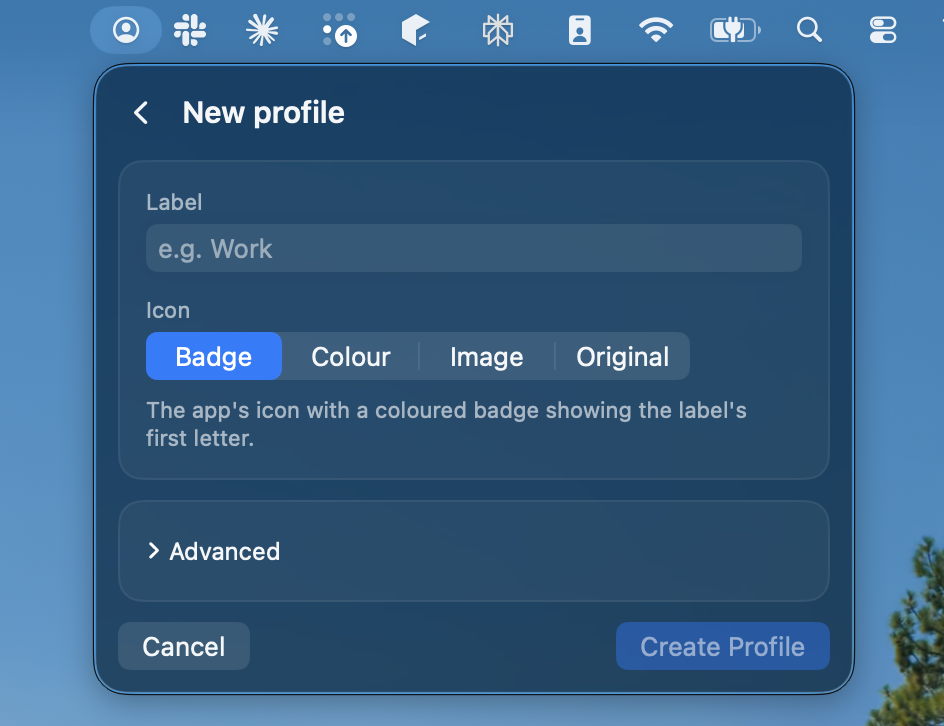
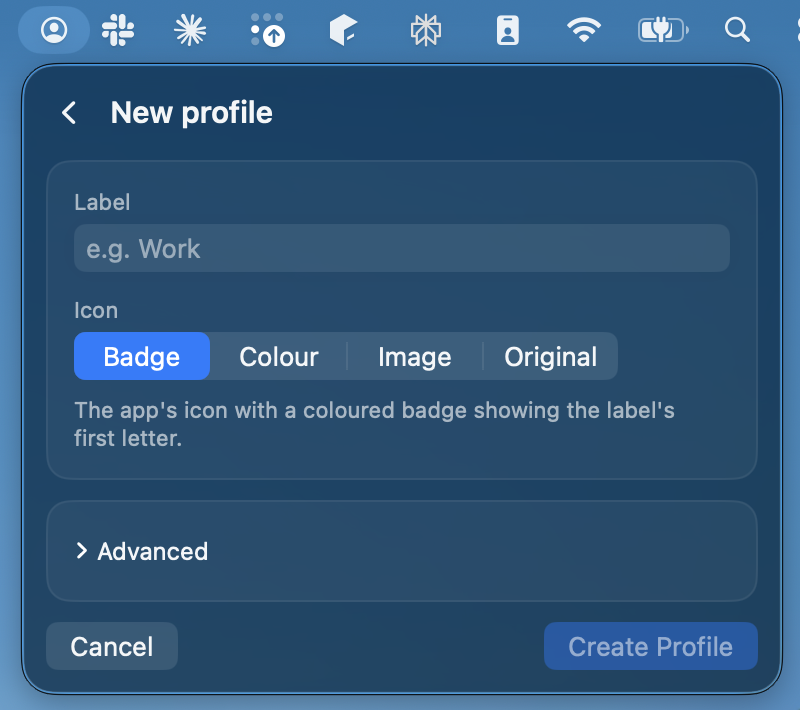
Shorter README with the screenshots on top
Both screenshots are now the same size (800x710) and sit side by side at
the top. Details (all commands and options, icons, updating, the menu bar
app build, platforms) move to docs/usage.md. The icon section now uses
the 'icon' command instead of re-running add.

Claude-Session: https://claude.ai/code/session_01RpSPo6f4JX8crexbrQ7P2x

Changed region(s): [[0.0, 0.0, 1.0, 1.0], [0.5938, 0.4648, 0.75, 0.5268], [0.4688, 0.4648, 0.5625, 0.5268]]

diff --git a/README.md b/README.md
@@ -1,6 +1,20 @@
+<div align="center">
+
 # claude-desktop-profiles
 
-Run more than one Claude Desktop account on the same computer, for example a personal and a work account, each signed in at the same time. On macOS every profile is its own app, with its own Dock icon and name, its own data and its own Claude Code settings.
+Run several Claude Desktop accounts side by side, for example personal and work, each signed in.
+On macOS every profile is its own app, with its own Dock icon, data and Claude Code settings.
+
+[Quick start](#quick-start) · [Menu bar app](#menu-bar-app) · [Usage](docs/usage.md)
+
+<table>
+  <tr>
+    <td width="50%"><img src="docs/images/menubar-profiles.png" alt="The menu bar app listing two running profiles, Claude Personal and Claude Work" /></td>
+    <td width="50%"><img src="docs/images/menubar-new-profile.png" alt="The New profile form: a label, icon choices Badge, Colour, Image and Original, and an Advanced section" /></td>
+  </tr>
+</table>
+
+</div>
 
 ## Quick start
 
@@ -10,172 +24,47 @@ cd claude-desktop-profiles
 ./claude-profiles add Work
 ```
 
-Open `~/Applications/Claude Work.app`, sign in to the account you want in that profile, and pin it to your Dock if you like. Your existing Claude stays as it is, with its current account.
+Open `~/Applications/Claude Work.app` and sign in. Your existing Claude stays as it is.
 
-No dependencies and nothing to install: it is one script that uses only tools macOS already has. Read it before you run it.
+It is one script with no dependencies, using only tools macOS already has. Read it before you run it.
 
-Prefer clicking to typing? The [menu bar app](#menu-bar-app-macos) does the same from the macOS menu bar.
-
-## What each profile gets (macOS)
+## What a profile gets
 
 | | |
 | --- | --- |
-| **App** | `~/Applications/Claude <label>.app`, a copy of Claude with its own name and icon, so it has its own Dock tile. The copy is an APFS clone and uses almost no extra disk space. |
-| **Icon** | The Claude icon with a large coloured badge showing the label's first letter. Use `--color` to turn the whole icon to another colour instead, `--icon` for your own image, or `--no-badge` to keep Claude's. |
-| **App data** | A separate folder, `~/Library/Application Support/Claude-<label>`: login, history, settings. |
-| **Claude Code settings** | A separate `~/.claude-<label>` (label in lowercase, e.g. `~/.claude-work`) instead of `~/.claude`, so history, settings and login stay apart. |
+| **App** | `~/Applications/Claude <label>.app`: a copy of Claude (an APFS clone, almost no disk space) with its own name and Dock icon |
+| **Icon** | Claude's icon with a coloured badge, a whole new colour, or your own image |
+| **Data** | `~/Library/Application Support/Claude-<label>`: login, history, settings |
+| **Claude Code** | `~/.claude-<label>` instead of `~/.claude` |
 
 The installed Claude is never modified.
 
+## Menu bar app
+
+Does everything the script does from the menu bar: shows profiles that are older than the installed Claude and updates them, lists every profile with its folders, opens and quits profiles, and creates, re-icons and removes them.
+
+```bash
+menubar/build.sh --open    # macOS 13+, needs Xcode or the Command Line Tools
+```
+
+Or download `Claude-Profiles-Menu.zip` from [Releases](https://github.com/piotr-liszka/claude-desktop-profiles/releases), unzip it into `~/Applications`, then right-click the app and choose **Open** (it is not notarized).
+
 ## Commands
 
-| Command | What it does |
-| --- | --- |
-| `add <label>` | Create a profile |
-| `list` | Show profiles and whether each is running. `--json` prints them for other programs. |
-| `launch <label>` | Start a profile, or bring it to the front |
-| `quit <label>` | Quit a running profile |
-| `icon <label> --color COLOR` | macOS: change an app copy's icon and keep its data and settings. Instead of `--color`, use `--icon PATH`, `--badge` or `--no-badge`. `--restart` quits and reopens it if it is open. |
-| `update [label]` | Rebuild app copies from the installed Claude (run this after Claude updates). Without a label it rebuilds every profile. `--outdated` skips copies already at the installed version; `--restart` quits open profiles first and reopens them. |
-| `install-updater` | macOS: create `~/Applications/Claude Profiles Updater.app`, which does the update for you (see below) |
-| `env <label>` | Print `export` lines so a terminal can use the profile's settings |
-| `remove <label>` | Delete the profile's app and keep its data |
-| `remove <label> --purge` | Also delete its data and Claude Code folders (asks you to type the label) |
-| `doctor` | Show what was detected on this machine |
-
-Options for `add`:
-
-| Option | Meaning |
-| --- | --- |
-| `--app PATH` | App to use (default: auto-detected Claude Desktop) |
-| `--color COLOR` | Turn the whole icon to this colour instead of adding a badge: a name (`red`, `orange`, `yellow`, `green`, `teal`, `blue`, `purple`, `pink`) or a coloured hex such as `#3b82f6`. Only the hue is used, so grey, black and white are refused. |
-| `--icon PATH` | Your own icon: `.icns`, or an image such as `.png` (square, 1024 px is best). Wins over `--color`. |
-| `--no-badge` | Keep the app's own icon |
-| `--data-dir PATH` | App data folder |
-| `--config-dir PATH` | Claude Code folder (default `~/.claude-<label in lowercase>`) |
-| `--no-config-dir` | Do not give the profile its own Claude Code folder |
-| `--env NAME=VALUE` | Extra environment variable for the app (repeatable) |
-| `--shared-app` | Do not copy the app; start the installed one through a launcher (all profiles then share one Dock tile) |
-| `--dest DIR` | Where the profile is created |
-| `--dry-run` | Show what would happen and change nothing |
-
-Labels may contain letters, digits, `-` and `_`.
-
-## Changing the icon later
-
-Run `add` again for the same label. It rebuilds the app and keeps the profile's data, but the profile must be quit first:
-
 ```bash
-./claude-profiles add Work --color blue
+./claude-profiles add Work --color blue   # create a profile
+./claude-profiles list                    # profiles and whether they run
+./claude-profiles launch Work             # start or show it
+./claude-profiles update --outdated --restart   # after Claude updates
+./claude-profiles remove Work [--purge]   # remove the app (and its data)
 ```
 
-The icon lives inside the profile's app, at `~/Applications/Claude <label>.app/Contents/Resources/profile.icns`. To swap it by hand, replace that file, then sign the app again and refresh the Dock:
-
-```bash
-codesign --force --deep --sign - "$HOME/Applications/Claude Work.app"
-touch "$HOME/Applications/Claude Work.app" && killall Dock
-```
-
-`update` keeps whatever icon the profile has.
-
-## Updating after Claude updates
-
-Profile copies do not update themselves. Let the original Claude install its update, then open **Claude Profiles Updater**. It lists the profiles that are older than the installed Claude, asks before it starts, quits the open ones, rebuilds them and reopens them.
-
-Create it once:
-
-```bash
-./claude-profiles install-updater
-```
-
-It carries its own copy of the script, so run `install-updater` again after you change the script. Its log is `~/Library/Logs/claude-profiles-updater.log`.
-
-Without the app, run `./claude-profiles update --outdated --restart` from Terminal. A profile cannot quit itself, so this refuses to run from a terminal inside a profile it would quit.
-
-## Menu bar app (macOS)
-
-A small app in the menu bar that does everything the script does, without a terminal:
-
-<p>
-  <img src="docs/images/menubar-profiles.png" alt="The menu bar app listing two running profiles, Claude Personal and Claude Work, each with a Show button" width="400">
-  <img src="docs/images/menubar-new-profile.png" alt="The New profile form: a label field, icon choices Badge, Colour, Image and Original, and an Advanced section" width="400">
-</p>
-
-- shows which profiles are older than the installed Claude and updates them (one, or all at once), quitting and reopening open ones
-- lists every profile with its state, version and where its app, data and Claude Code settings are, with buttons to show them in Finder or copy them
-- opens, shows and quits profiles
-- creates profiles (label, badge, colour or your own icon, and the advanced options of `add`), changes a profile's icon and removes a profile, optionally with its data
-- click a profile for its details: app, data folder, Claude Code folder, the app it was built from and its environment
-- copies the terminal command for a profile's Claude Code settings, creates the updater app and shows the `doctor` output
-
-Each [release](https://github.com/piotr-liszka/claude-desktop-profiles/releases) has `Claude-Profiles-Menu.zip`, built from that release's sources by GitHub Actions. Unzip it into `~/Applications`. It is signed ad hoc, not by a registered developer, so macOS blocks the first start: right-click the app, choose **Open**, then **Open** again. Or remove the download mark yourself:
-
-```bash
-xattr -dr com.apple.quarantine "$HOME/Applications/Claude Profiles Menu.app"
-```
-
-Or build it yourself. That needs macOS 13 or later and Apple's Swift compiler, which comes with Xcode or the Command Line Tools (`xcode-select --install`):
-
-```bash
-menubar/build.sh --open
-```
-
-This creates `~/Applications/Claude Profiles Menu.app`. It carries its own copy of `claude-profiles` and runs it for every action, so build it again after you change the script. To start it when you log in, use **Open at Login** in its settings menu. If your profiles are not in `~/Applications`, tell it where they are:
-
-```bash
-defaults write local.claude-profiles.menubar ProfilesDest /path/to/folder
-```
-
-## Claude Code in a terminal
-
-The profile's app uses `~/.claude-<label in lowercase>`. To use the same settings and login from a terminal:
-
-```bash
-eval "$(./claude-profiles env Work)"
-claude
-```
-
-## Platforms
-
-| Platform | Script | Status |
-| --- | --- | --- |
-| macOS | `claude-profiles` | Tested. App copy per profile, own icon, name, data and Claude Code folder. |
-| Linux | `claude-profiles` | Untested. A `.desktop` launcher with its own data folder. Pass the executable with `--app` if it is not found as `claude-desktop`. |
-| Windows | `claude-profiles.ps1` | Experimental, untested. A Start Menu shortcut with its own data folder and icon. No app copy and no separate Claude Code folder yet. No `list --json`, `quit` or menu bar app. |
-
-## Other apps
-
-The script is not tied to Claude. It works with any app that honors the Chromium `--user-data-dir` flag, which Electron apps do:
-
-```bash
-./claude-profiles add Work --app "/Applications/Some App.app" --env SOME_VAR=value
-```
+All commands and options, updating, icons, Linux and Windows: [docs/usage.md](docs/usage.md).
 
 ## Good to know
 
-- **Updates.** Copies do not auto-update, because they are no longer signed by Anthropic. If a profile offers to install an update, close the message: let only the original Claude update, then use the updater app or `update --restart` (see above).
-- **Signing.** Editing the copy breaks its signature, so it is signed ad hoc on your machine. macOS may ask once for Keychain access, and permissions such as camera or screen recording are granted per copy. Features that rely on Anthropic's signature (passkeys, security keys, Microsoft single sign-on) may not work in a copy. If you need them, create that profile with `--shared-app`.
-- **Sign-in.** Sign-in returns to the app through a link that macOS delivers to one app. If it opens the wrong window, quit the other profile while you sign in, then start it again.
-- **Disk space.** Each profile keeps its own data, including anything large the app downloads for itself.
-- **Safety.** The tool only creates files in the folder you give it (`~/Applications` by default) and reads the process list. `--purge` refuses anything that does not look like a dedicated profile folder, never touches `~/.claude` or the app's own default folder, and asks you to type the label first.
+- Copies do not auto-update. Let only the original Claude update, then run `update` or use the menu bar app.
+- Copies are signed ad hoc on your machine. Passkeys, security keys and Microsoft sign-in may not work in a copy; use `add --shared-app` for those.
+- If sign-in opens the wrong window, quit the other profile while you sign in.
 
-## Remove everything
-
-```bash
-./claude-profiles remove Work --purge
-```
-
-## Tests
-
-```bash
-tests/run.sh           # unit and CLI tests in a throwaway HOME, using a fake app
-LIVE=1 tests/run.sh    # also starts the fake app through the generated profiles and draws a badge
-```
-
-## Disclaimer
-
-Unofficial. Not affiliated with or endorsed by Anthropic. Claude is a trademark of Anthropic.
-
-## License
-
-MIT
+Unofficial. Not affiliated with or endorsed by Anthropic. Claude is a trademark of Anthropic. MIT license.

diff --git a/docs/usage.md b/docs/usage.md
@@ -1,0 +1,104 @@
+# Usage
+
+## Commands
+
+| Command | What it does |
+| --- | --- |
+| `add <label>` | Create a profile |
+| `list` | Show profiles and whether each is running. `--json` prints them for other programs. |
+| `launch <label>` | Start a profile, or bring it to the front |
+| `quit <label>` | Quit a running profile |
+| `icon <label> --color COLOR` | macOS: change a profile's icon and keep its data and settings. Instead of `--color`: `--icon PATH`, `--badge` or `--no-badge`. `--restart` quits and reopens it if it is open. |
+| `update [label]` | Rebuild app copies from the installed Claude, all of them without a label. `--outdated` skips copies already at the installed version; `--restart` quits open profiles and reopens them. |
+| `install-updater` | macOS: create `~/Applications/Claude Profiles Updater.app` (see below) |
+| `env <label>` | Print `export` lines so a terminal uses the profile's Claude Code settings |
+| `remove <label>` | Delete the profile's app, keep its data |
+| `remove <label> --purge` | Also delete its data and Claude Code folders (asks you to type the label) |
+| `doctor` | Show what was detected on this machine |
+
+Labels may contain letters, digits, `-` and `_`.
+
+## Options for `add`
+
+| Option | Meaning |
+| --- | --- |
+| `--app PATH` | App to use (default: auto-detected Claude Desktop) |
+| `--color COLOR` | Turn the whole icon to this colour instead of adding a badge: `red`, `orange`, `yellow`, `green`, `teal`, `blue`, `purple`, `pink` or a hex such as `#3b82f6`. Grey, black and white are refused. |
+| `--icon PATH` | Your own icon: `.icns` or an image such as `.png` (square, 1024 px is best). Wins over `--color`. |
+| `--no-badge` | Keep the app's own icon |
+| `--data-dir PATH` | App data folder |
+| `--config-dir PATH` | Claude Code folder (default `~/.claude-<label in lowercase>`) |
+| `--no-config-dir` | Do not give the profile its own Claude Code folder |
+| `--env NAME=VALUE` | Extra environment variable for the app (repeatable) |
+| `--shared-app` | Do not copy the app; start the installed one through a launcher. All such profiles share one Dock tile. |
+| `--dest DIR` | Where the profile is created |
+| `--dry-run` | Show what would happen and change nothing |
+
+## Changing the icon
+
+```bash
+./claude-profiles icon Work --color blue --restart
+```
+
+The icon is `Contents/Resources/profile.icns` inside the profile's app. `update` keeps it.
+
+## Updating after Claude updates
+
+Copies do not update themselves, because they are no longer signed by Anthropic. If a profile offers to install an update, close the message. Let the original Claude update, then:
+
+- use the menu bar app's **Update** buttons, or
+- open **Claude Profiles Updater** (create it once with `./claude-profiles install-updater`; run that again after you change the script; log in `~/Library/Logs/claude-profiles-updater.log`), or
+- run `./claude-profiles update --outdated --restart`. It refuses to run from a terminal inside a profile it would quit.
+
+## Menu bar app
+
+`menubar/build.sh` builds `~/Applications/Claude Profiles Menu.app` with Apple's Swift compiler (Xcode or `xcode-select --install`), macOS 13 or later. Options: `--dest DIR`, `--open`, `--universal`. The app carries its own copy of `claude-profiles` and runs it for every action, so build it again after you change the script.
+
+Release builds are signed ad hoc, not notarized. To open one the first time, right-click it and choose **Open**, or run:
+
+```bash
+xattr -dr com.apple.quarantine "$HOME/Applications/Claude Profiles Menu.app"
+```
+
+**Open at Login** is in its settings menu. If your profiles are not in `~/Applications`:
+
+```bash
+defaults write local.claude-profiles.menubar ProfilesDest /path/to/folder
+```
+
+## Claude Code in a terminal
+
+```bash
+eval "$(./claude-profiles env Work)"
+claude
+```
+
+## Platforms
+
+| Platform | Script | Status |
+| --- | --- | --- |
+| macOS | `claude-profiles` | Tested. App copy per profile, own icon, name, data and Claude Code folder. |
+| Linux | `claude-profiles` | Untested. A `.desktop` launcher with its own data folder. Pass the executable with `--app` if it is not found as `claude-desktop`. |
+| Windows | `claude-profiles.ps1` | Experimental, untested. A Start Menu shortcut with its own data folder and icon. No app copy, separate Claude Code folder, `list --json`, `quit` or menu bar app. |
+
+## Other apps
+
+Any app that honors the Chromium `--user-data-dir` flag works, which Electron apps do:
+
+```bash
+./claude-profiles add Work --app "/Applications/Some App.app" --env SOME_VAR=value
+```
+
+## Good to know
+
+- **Signing.** The copy is signed ad hoc on your machine. macOS may ask once for Keychain access, and permissions such as camera or screen recording are granted per copy. Features that rely on Anthropic's signature (passkeys, security keys, Microsoft single sign-on) may not work; use `--shared-app` for those profiles.
+- **Sign-in.** Sign-in returns to the app through a link that macOS delivers to one app. If it opens the wrong window, quit the other profile while you sign in.
+- **Disk space.** Each profile keeps its own data.
+- **Safety.** The tool only creates files in the folder you give it (`~/Applications` by default) and reads the process list. `--purge` refuses anything that does not look like a dedicated profile folder, never touches `~/.claude` or the app's default folder, and asks you to type the label first.
+
+## Tests
+
+```bash
+tests/run.sh           # in a throwaway HOME, using a fake app
+LIVE=1 tests/run.sh    # also starts the fake app and draws a badge
+```

diff --git a/AGENTS.md b/AGENTS.md
@@ -4,17 +4,17 @@ Guidance for AI agents and contributors working in this repository.
 
 ## What this is
 
-A small, dependency-free tool that gives each account of an Electron desktop app (Claude Desktop by default) its own profile so several accounts can run side by side. On macOS a profile is a copy of the app with its own name, icon, data folder and environment. See `README.md` for usage.
+A small, dependency-free tool that gives each account of an Electron desktop app (Claude Desktop by default) its own profile so several accounts can run side by side. On macOS a profile is a copy of the app with its own name, icon, data folder and environment. See `README.md` and `docs/usage.md` for usage.
 
 ## Layout
 
 | Path | Purpose |
 | --- | --- |
 | `claude-profiles` | Bash script for macOS and Linux. The whole tool lives in this one file. |
-| `claude-profiles.ps1` | PowerShell script for Windows. Fewer features (see the README). |
+| `claude-profiles.ps1` | PowerShell script for Windows. Fewer features (see `docs/usage.md`). |
 | `tests/run.sh` | Tests, run in a throwaway `HOME` against a fake app. `LIVE=1` also starts it. |
 | `menubar/` | macOS menu bar app (SwiftUI, macOS 13+). `build.sh` compiles it with `swiftc` and puts a copy of `claude-profiles` inside it. |
-| `README.md` | User-facing docs. Keep it short and simple. |
+| `README.md` | Short user-facing overview. Details go in `docs/usage.md`. |
 
 ## How a macOS profile works
 
@@ -45,7 +45,7 @@ A small, dependency-free tool that gives each account of an Electron desktop app
 - **Validate input.** Labels are `[A-Za-z0-9_-]`, 32 characters at most. Environment names are `[A-Za-z_][A-Za-z0-9_]*`. Paths are made absolute and `..` is rejected. Quote every expansion; paths contain spaces on macOS (`Application Support`).
 - **Never overwrite something the tool did not create.** Refuse and say why.
 - **Do not touch system settings.** In particular, do not change the default handler for `claude://` or other URL schemes, and do not edit Launch Services or Dock preferences.
-- **Keep parity or document the gap.** A behavior change in `claude-profiles` needs the same change in `claude-profiles.ps1`, or a note in the README's platform table.
+- **Keep parity or document the gap.** A behavior change in `claude-profiles` needs the same change in `claude-profiles.ps1`, or a note in the platform table in `docs/usage.md`.
 
 ## Testing
 
